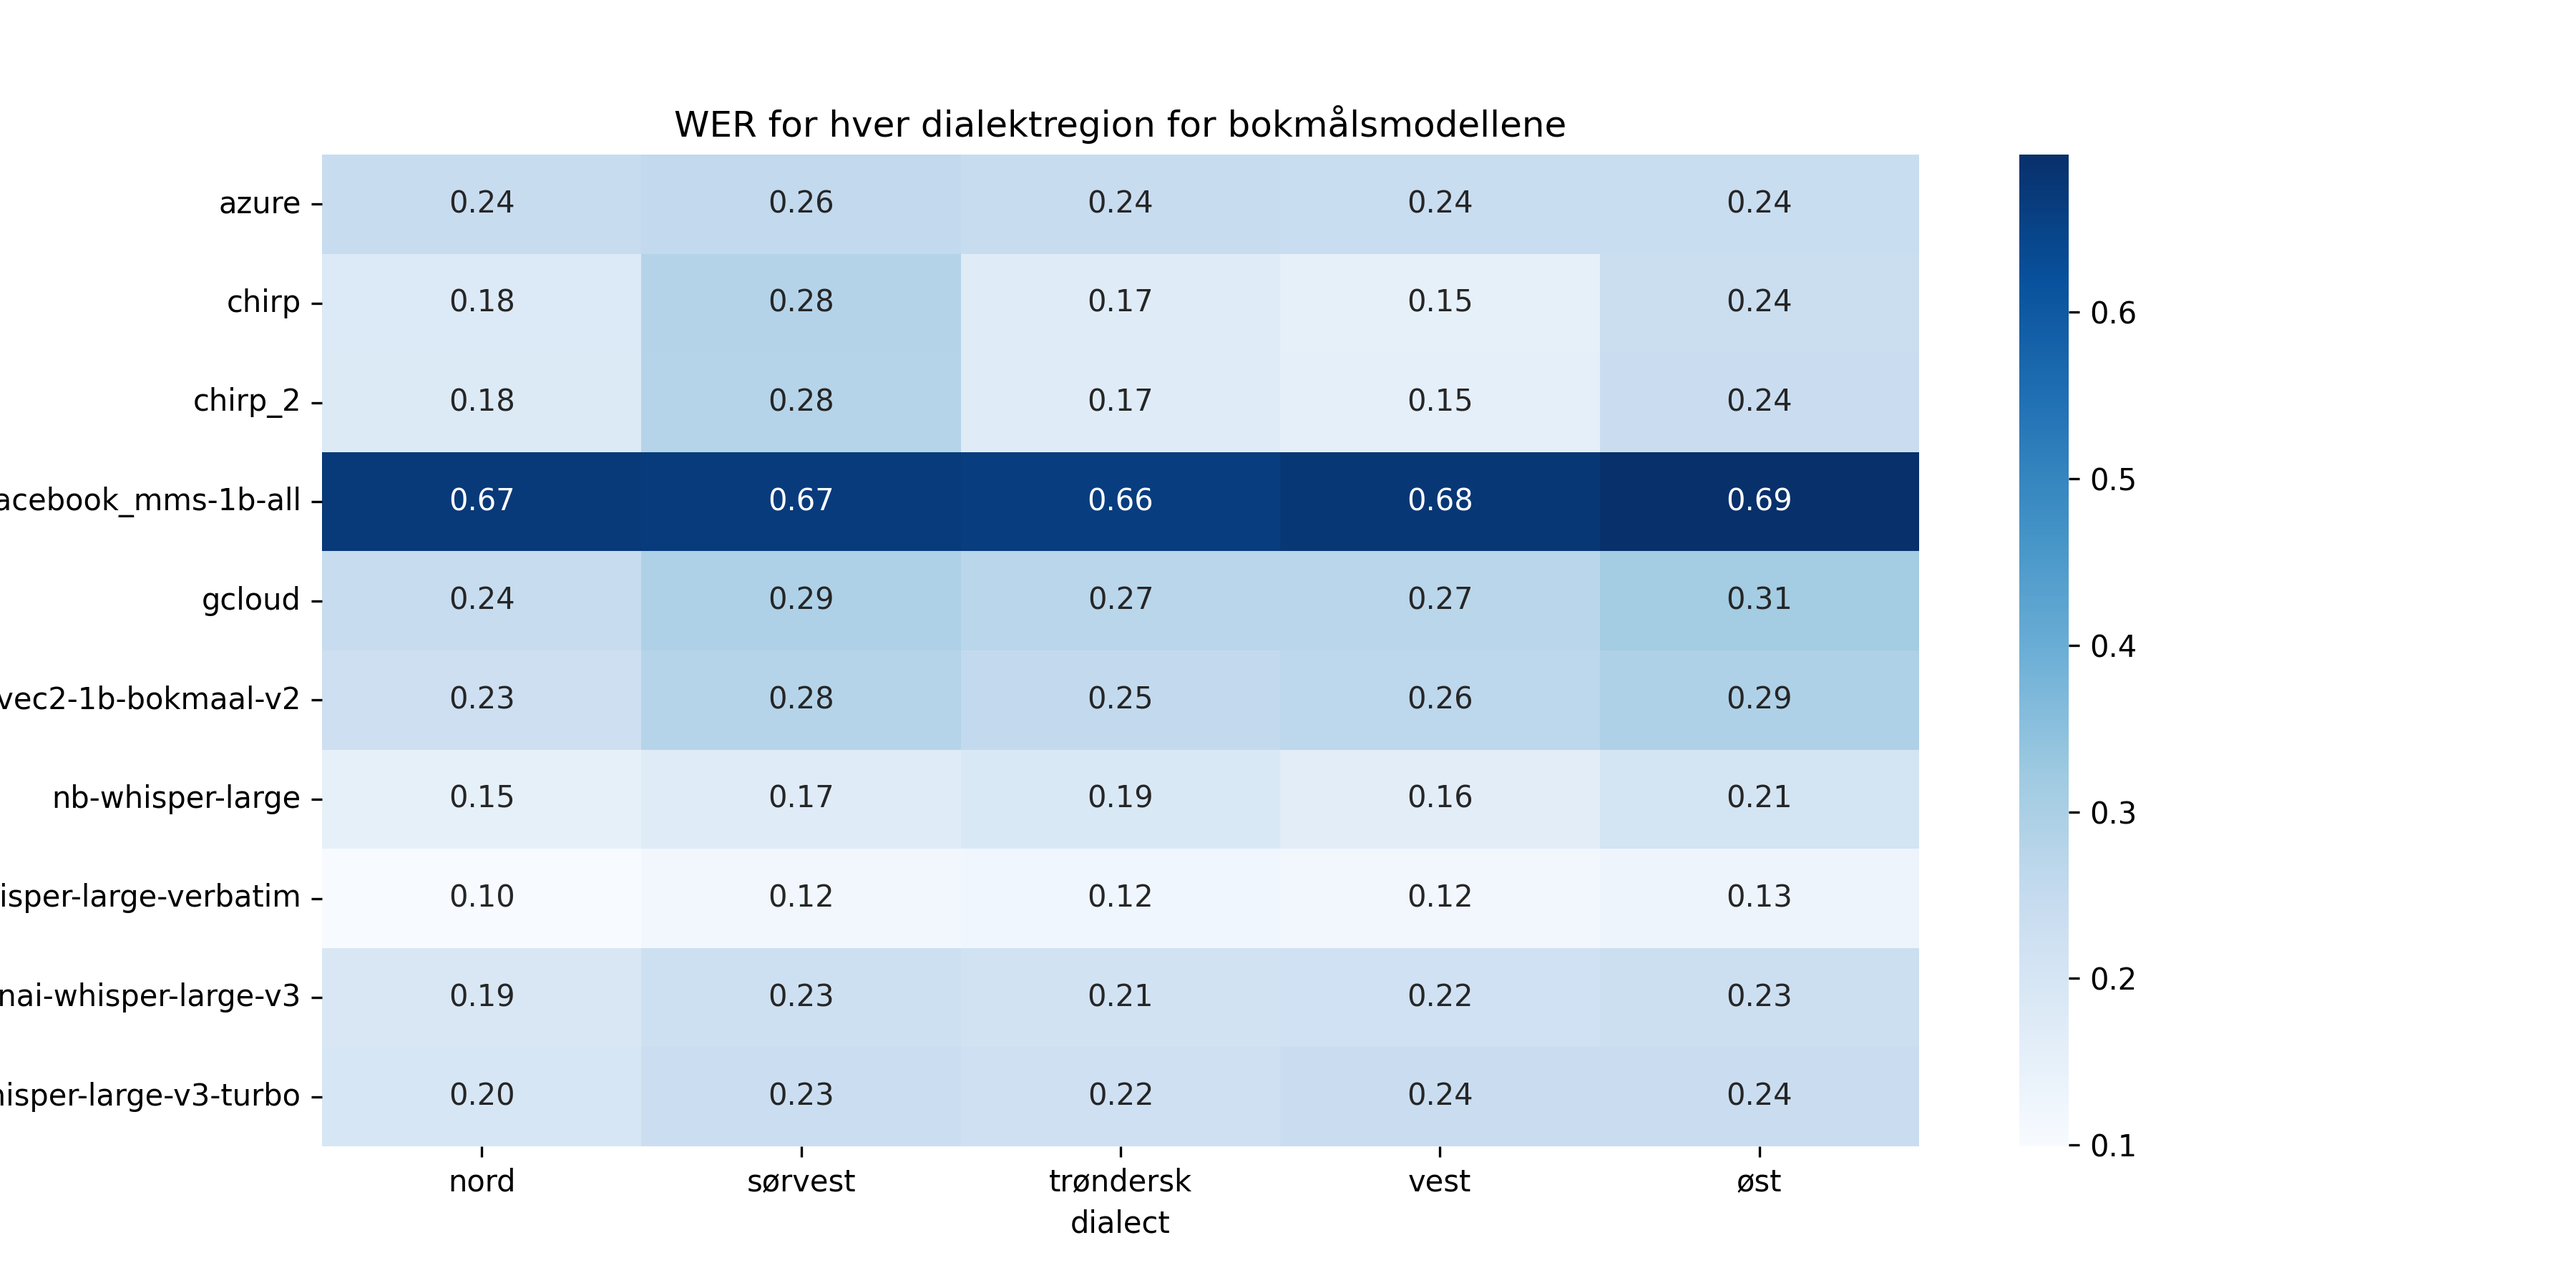
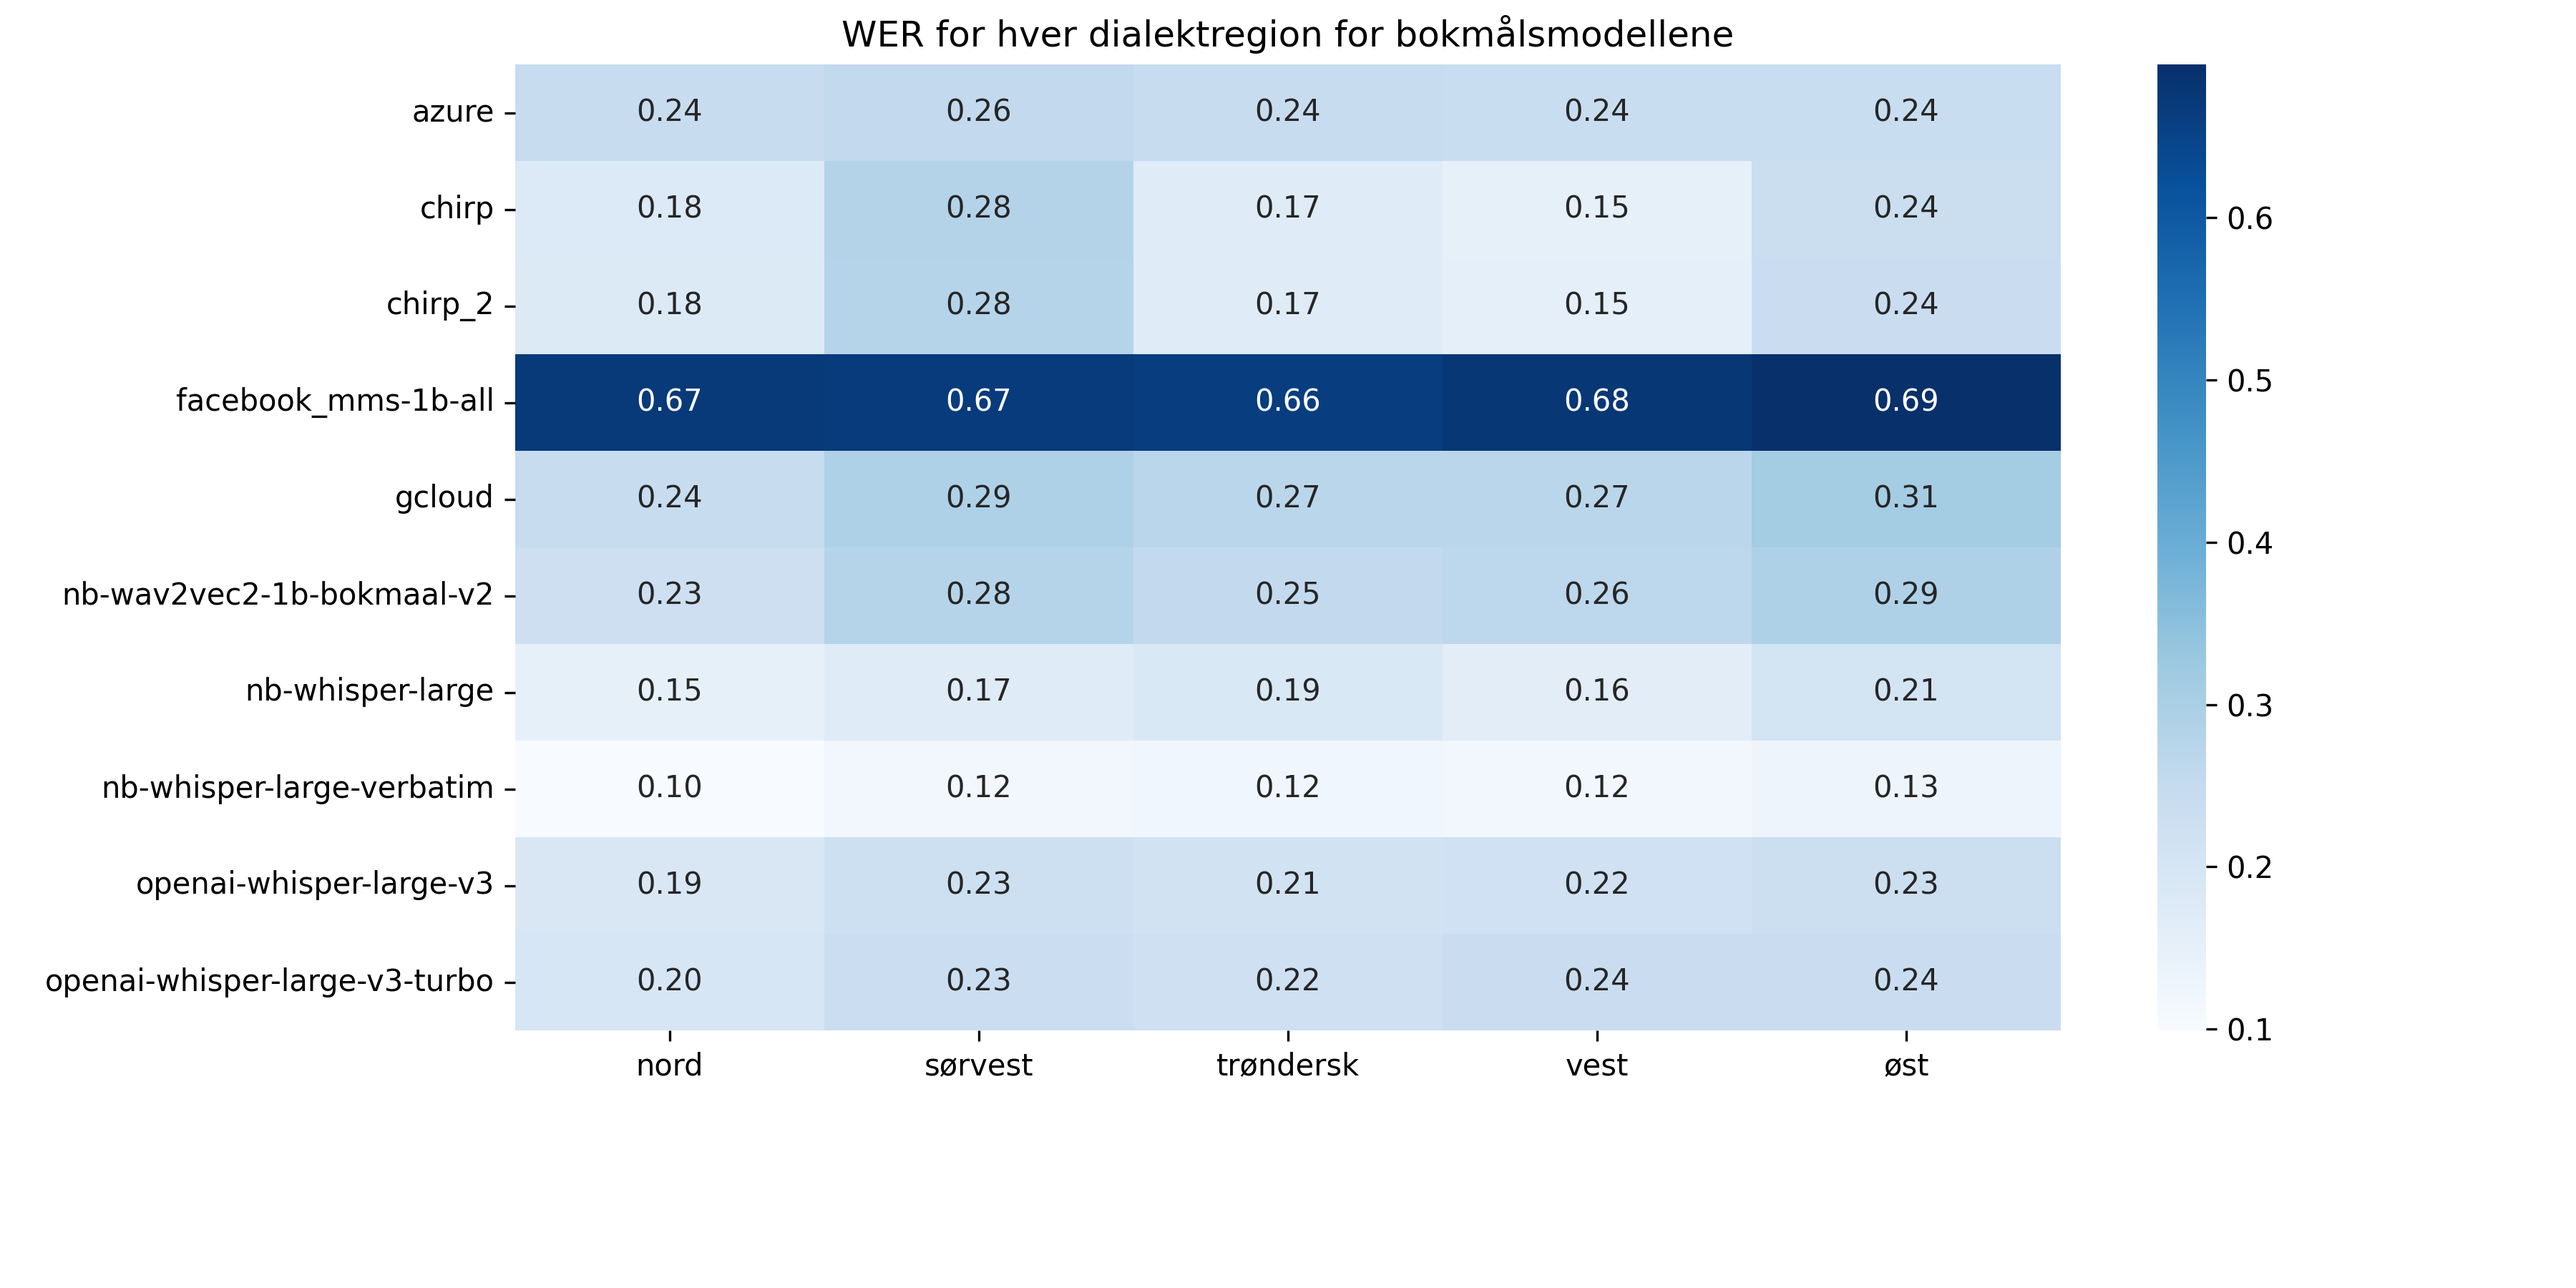
adjust figure layout so labels aren't cut off
- remove relabelling dict since it's not used
- remove axis labels since the notebook provides the explanation in the plot title
- save images with transparent background
- update the images

diff --git a/notebooks/notebook_utils.py b/notebooks/notebook_utils.py
@@ -107,16 +107,6 @@ def get_score_by_column(
     )
 
 
-# Rename various labels for the visualisation
-VISUALIZE_LABEL_MAP = {
-    "dialect": "Dialekt",
-    "year": "Årstall",
-    "gender": "Kjønn",
-    "nob": "Bokmål",
-    "nno": "Nynorsk",
-}
-
-
 def make_heatmap(
     df: pd.DataFrame,
     feature: Literal["dialect", "gender"],
@@ -139,3 +129,7 @@ def make_heatmap(
     pivot = viz_df.pivot(index="modell", columns=feature, values=metric)
     plt.figure(figsize=figsize)
     sns.heatmap(pivot, annot=annot, fmt=fmt, cmap=cmap)
+    plt.xlabel(None)  # Remove axis labels because they are provided in the plot title
+    plt.ylabel(None)
+    # Adjust figure layout so that the labels aren't cut off when saving the image
+    plt.subplots_adjust(left=0.2, right=0.95, top=0.95, bottom=0.2)
